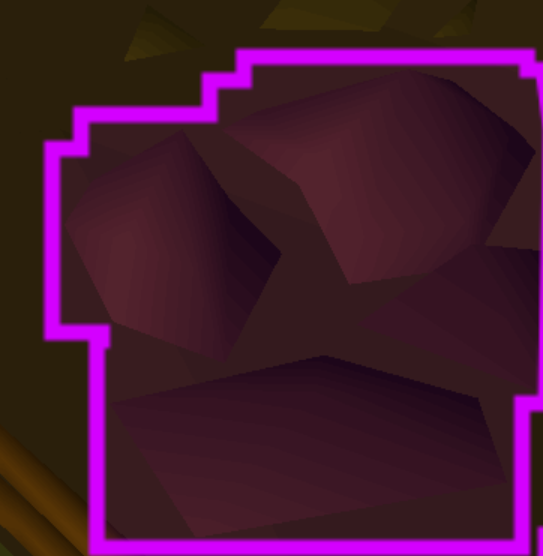
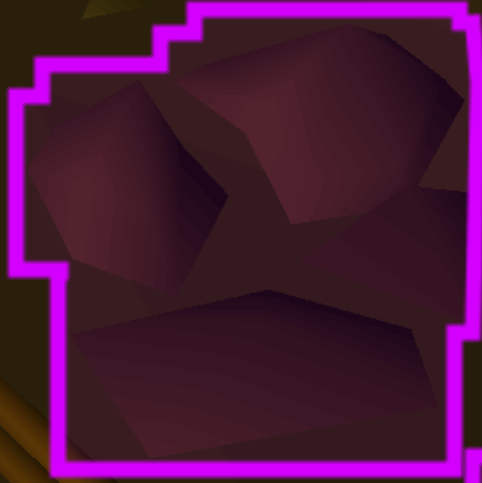
Fixes mining script for 3K display

Changed region(s): [[0.0, 0.0, 1.0, 1.0], [0.5602, 0.4037, 0.7158, 0.528], [0.529, 0.3106, 0.5602, 0.3727]]

diff --git a/RunescapeScripts/Common.py b/RunescapeScripts/Common.py
@@ -49,7 +49,7 @@ def set_regions():
         All_game_screen_region = (9, 47, 2926, 1882)
         Bottom_right_game_screen_region = (1354, 1048, 1048, 788)
         Top_half_game_screen_region = (3, 41, 2932, 1078)
-        Bottom_half_game_screen_region = (0, 716, 2403, 799)
+        Bottom_half_game_screen_region = (5, 591, 2418, 1341)
 
         Minimap_region = (2363, 74, 570, 418)
         Inventory_region = (2262, 1079, 671, 758)
